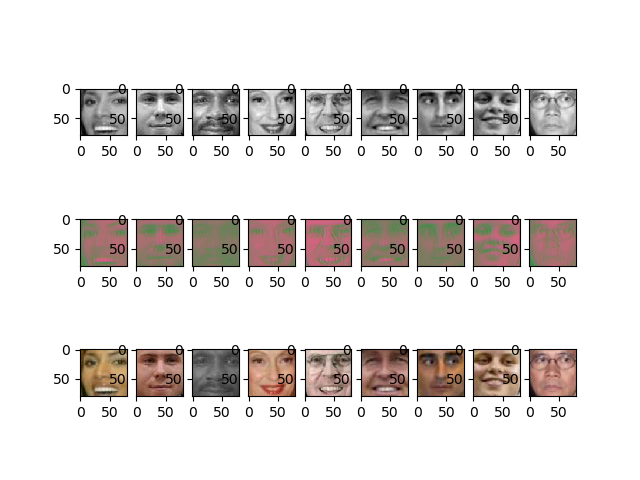
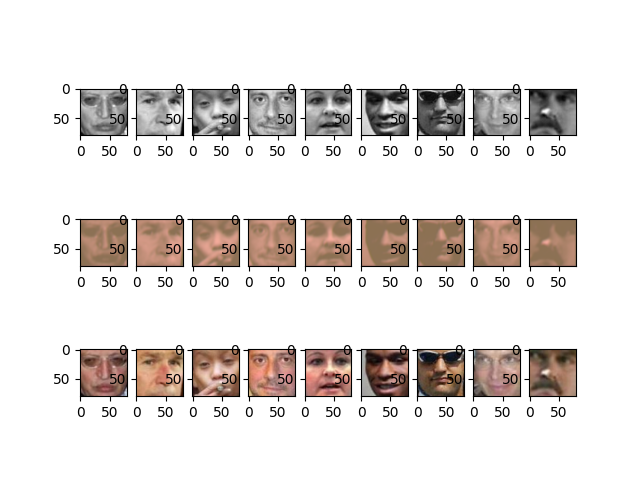
first_working_version

Changed region(s): [[0.125, 0.7188, 0.9062, 0.875], [0.125, 0.4375, 0.9062, 0.5938], [0.125, 0.1562, 0.9062, 0.3438]]

diff --git a/main.py b/main.py
@@ -11,11 +11,12 @@ import hw3utils
 batch_size = 16
 max_num_epoch = 10
 hps = {'lr': 0.001}
+num_kernels = 8
 
 # ---- options ----
 DEVICE_ID = 'cpu'  # set to 'cpu' for cpu, 'cuda' / 'cuda:0' or similar for gpu.
 LOG_DIR = 'checkpoints'
-VISUALIZE = False  # set True to visualize input, prediction and the output from the last batch
+VISUALIZE = True  # set True to visualize input, prediction and the output from the last batch
 LOAD_CHKPT = False
 
 torch.multiprocessing.set_start_method('spawn', force=True)
@@ -39,24 +40,18 @@ def get_loaders(batch_size, device):
 class Net(nn.Module):
     def __init__(self):
         super(Net, self).__init__()
-        self.conv1 = nn.Conv2d(1, 8, kernel_size=3, padding=1)
-        self.conv2 = nn.Conv2d(8, 8, kernel_size=3, padding=1)
-        self.conv3 = nn.Conv2d(8, 8, kernel_size=3, padding=1)
-
+        self.conv1 = nn.Conv2d(1, num_kernels, kernel_size=3, padding=1)
+        self.conv2 = nn.Conv2d(num_kernels, num_kernels, kernel_size=3, padding=1)
+        self.conv3 = nn.Conv2d(num_kernels, num_kernels, kernel_size=3, padding=1)
+        self.conv4 = nn.Conv2d(num_kernels, 3, kernel_size=3, padding=1)
         self.pool = nn.MaxPool2d(kernel_size=2, stride=2)
-        self.fc1 = nn.Linear(10 * 10 * 8, 4096)
-        self.fc2 = nn.Linear(4096, 4096)
-        self.fc3 = nn.Linear(4096, 3 * 80 * 80)
 
     def forward(self, grayscale_image):
         # apply your network's layers in the following lines:
-        x = self.pool(F.relu(self.conv1(grayscale_image)))
-        x = self.pool(F.relu(self.conv2(x)))
-        x = self.pool(F.relu(self.conv3(x)))
-        x = x.view(-1, 10 * 10 * 8)
-        x = F.relu(self.fc1(x))
-        x = F.relu(self.fc2(x))
-        x = self.fc3(x)
+        x = F.relu(self.conv1(grayscale_image))
+        x = F.relu(self.conv2(x))
+        x = F.relu(self.conv3(x))
+        x = self.conv4(x)
         x = x.view(-1, 3, 80, 80)
         return x
 
@@ -73,12 +68,14 @@ if LOAD_CHKPT:
     print('loading the model from the checkpoint')
     model.load_state_dict(os.path.join(LOG_DIR, 'checkpoint.pt'))
 
+
 print('training begins')
 for epoch in range(max_num_epoch):
     running_loss = 0.0  # training loss of the network
     for iteri, data in enumerate(train_loader, 0):
         inputs, targets = data  # inputs: low-resolution images, targets: high-resolution images.
 
+        net.train()
         optimizer.zero_grad()  # zero the parameter gradients
 
         # do forward, backward, SGD step

diff --git a/template.py b/template.py
@@ -16,7 +16,7 @@ hps = {'lr':0.001}
 # ---- options ----
 DEVICE_ID = 'cpu' # set to 'cpu' for cpu, 'cuda' / 'cuda:0' or similar for gpu.
 LOG_DIR = 'checkpoints'
-VISUALIZE = False # set True to visualize input, prediction and the output from the last batch
+VISUALIZE = True # set True to visualize input, prediction and the output from the last batch
 LOAD_CHKPT = False
 
 # --- imports ---
